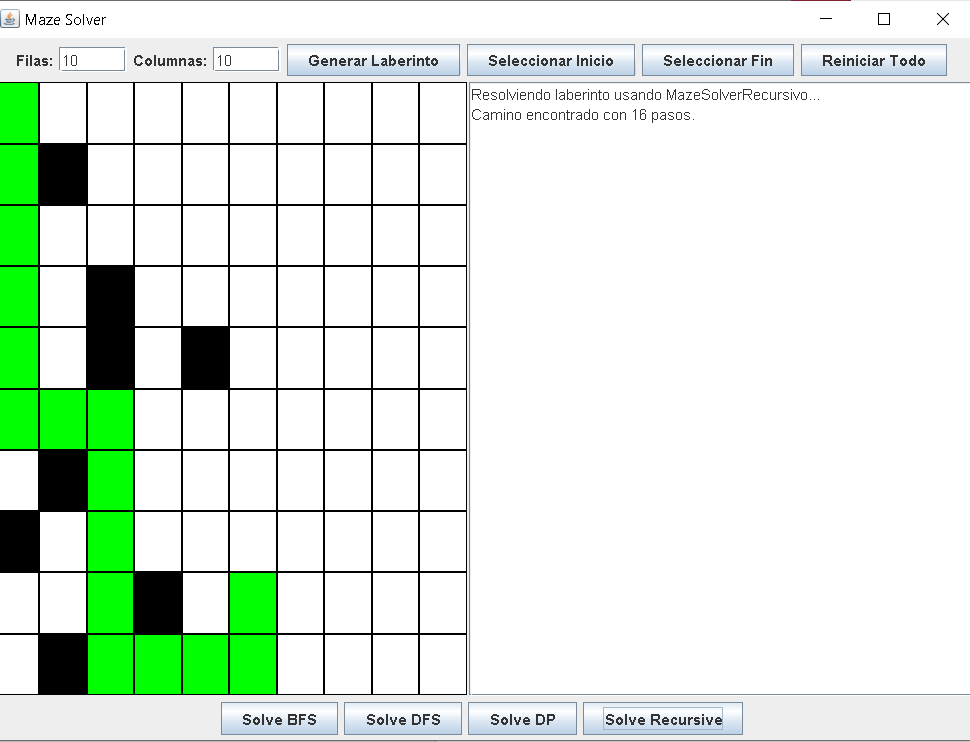
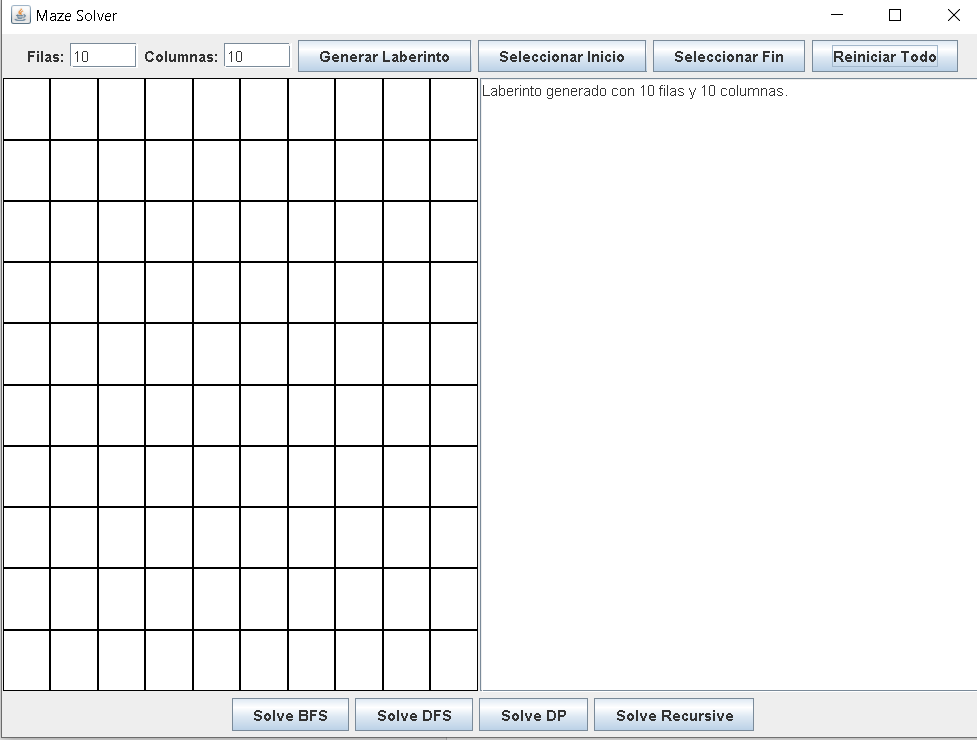
Proyecto Final – Estructura de Datos

Changed region(s): [[0.0, 0.0, 1.0, 1.0], [0.9588, 0.0, 0.9897, 0.0311]]

diff --git a/README.md b/README.md
@@ -1,4 +1,4 @@
-![LOGO UPS] (C:\Users\Damian\OneDrive - Universidad Politecnica Salesiana\Escritorio\ProyectoFinalEst\src\Imagen1.png)
+(![logo](https://raw.githubusercontent.com/Damianexe/Proyecto_Final_Estructura/refs/heads/master/src/imagenes/Imagen1.png))
 COMPUTACION
 Estructura de Datos
 Realizado por: Damian Ortiz y Jordán Carmona
@@ -24,4 +24,9 @@ Cada integrante del equipo contribuyó en diferentes aspectos del desarrollo del
 •	Integrante 2: Depuración, validación de camino.
 Cabe recalcar que todos los integrantes apoyaron en la realización del trabajo, con diferentes aportes al proyecto.
 5. Capturas de la Implementación Final
-Agregar capturas de pantalla de la interfaz con la generación del laberinto, selección de inicio/fin y ejecución de los algoritmos.
+LABERINTO GENERADO:
+
+METODO DFS:
+![DFS](https://raw.githubusercontent.com/Damianexe/Proyecto_Final_Estructura/refs/heads/master/src/imagenes/Imagen2.png)
+METODO RECURSIVO:
+![rec](https://raw.githubusercontent.com/Damianexe/Proyecto_Final_Estructura/refs/heads/master/src/imagenes/Captura%20de%20pantalla%202025-02-19%20135542.png)
